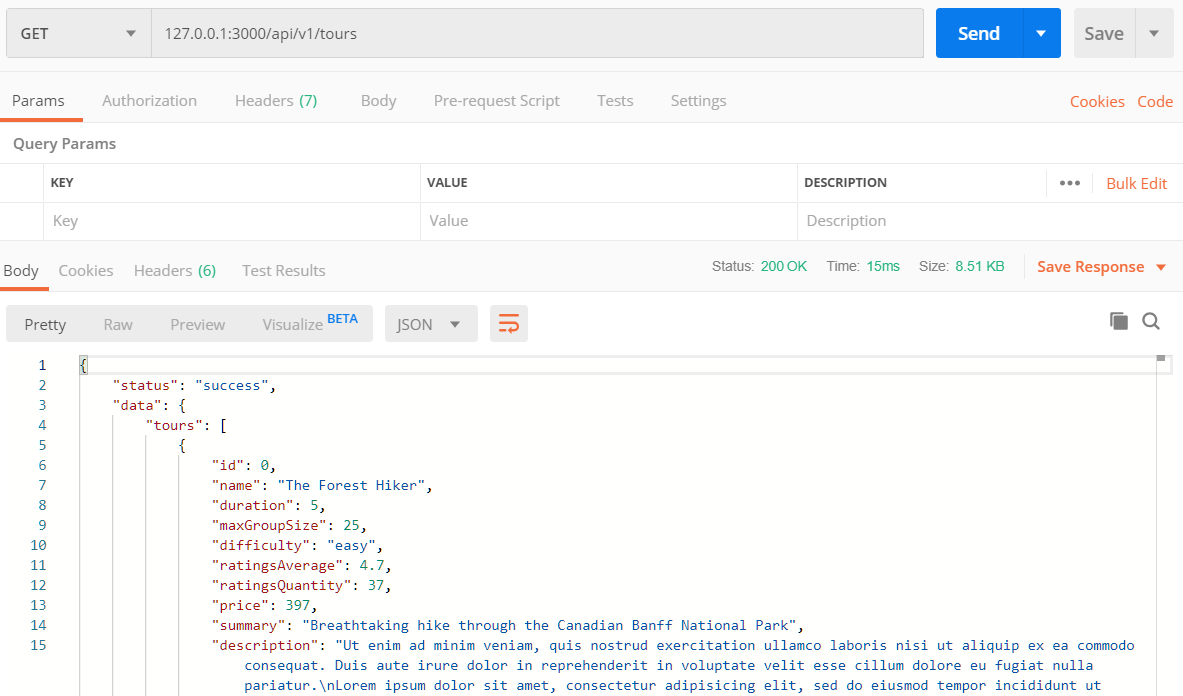
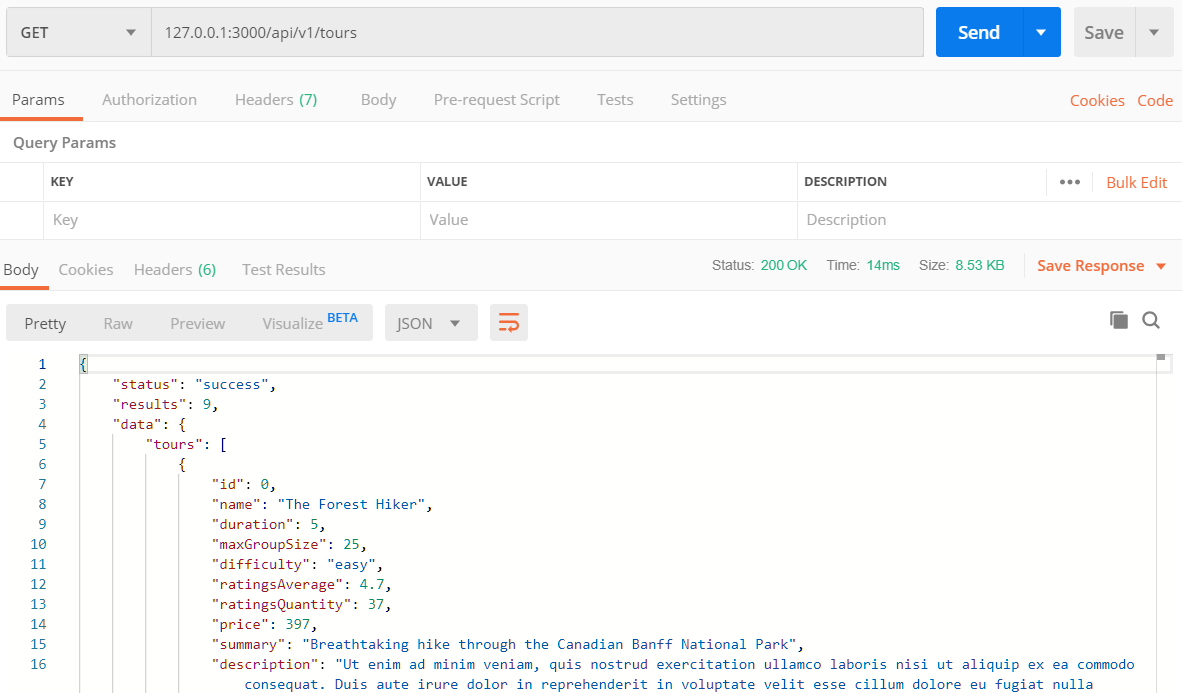
tours api images

diff --git a/app.js b/app.js
@@ -21,6 +21,7 @@ app.get('/api/v1/tours', (request, response) => {
   response.status(200).json({
     // we want to send back JSend standard format:
     status: 'success',
+    results: tours.length, // this only makes sens when we sending multiple objects(array)
     data: {
       tours
     }

diff --git a/README.md b/README.md
@@ -104,6 +104,7 @@ const app = express();
 const tours = JSON.parse(
   fs.readFileSync(`${__dirname}/dev-data/data/tours-simple.json`)
 );
+
 // Define a Route:
 app.get('/api/v1/tours', (request, response) => { // the callback function is called 'The Route Handler';  
   // only callback functions will run inside the Event Loop. In here we cannot have any blocking code!
@@ -112,6 +113,7 @@ app.get('/api/v1/tours', (request, response) => { // the callback function is ca
   response.status(200).json({
     // in JSend standard format:
     status: 'success',
+	results: tours.length, // this only makes sens when we sending multiple objects(array)
     data: {
       tours
     }
@@ -119,7 +121,7 @@ app.get('/api/v1/tours', (request, response) => { // the callback function is ca
 });
 
 const port = 3000;
-// Create a Server; pass in a port and a callback function that will be called as soon as the server starts listening.
+// Create a Server; callback function will be called as soon as the server starts listening.
 app.listen(port, () => {
   console.log(`App running on port ${port}...`);
 });
